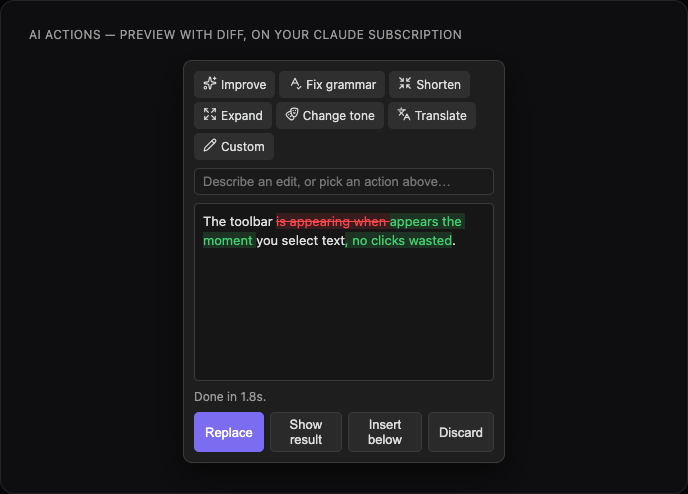
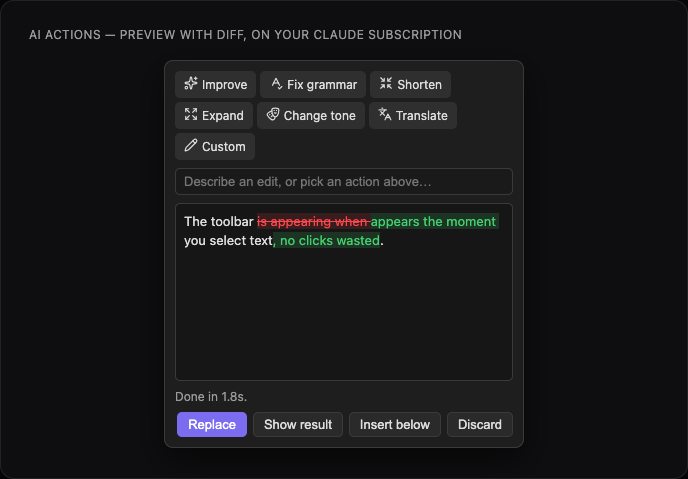
Fix AI panel button overflow; restore 360px width
Footer buttons could spill outside the panel because the footer never wrapped. Added flex-wrap to the footer (and box-sizing: border-box to the panel), and restored the width to 360px. Buttons now always stay inside the panel regardless of count/label length.

diff --git a/styles.css b/styles.css
@@ -97,9 +97,10 @@
   display: flex;
   flex-direction: column;
   gap: 8px;
-  width: 300px;
+  width: 360px;
   max-width: 90vw;
   padding: 10px;
+  box-sizing: border-box;
   background: var(--background-primary);
   border: 1px solid var(--background-modifier-border);
   border-radius: var(--radius-m);
@@ -197,6 +198,7 @@
 
 .selection-ai-footer {
   display: flex;
+  flex-wrap: wrap;
   justify-content: flex-end;
   gap: 6px;
 }